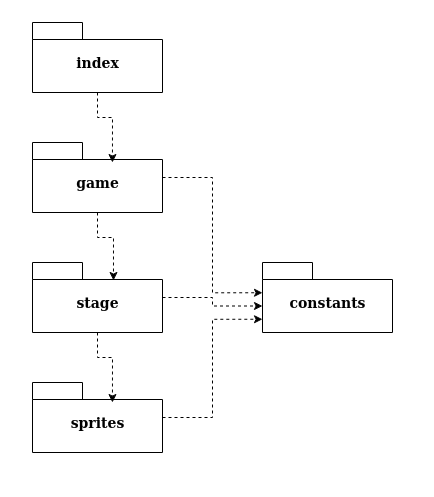
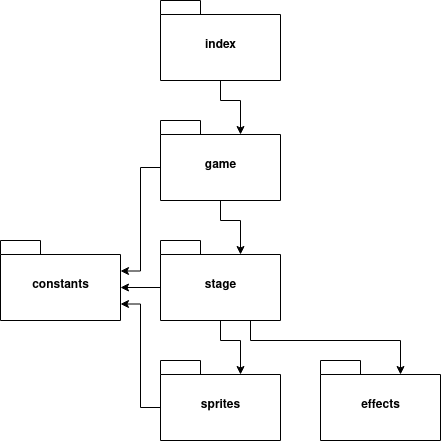
27.4

diff --git a/dokumentaatio/tyoaika.md b/dokumentaatio/tyoaika.md
@@ -6,9 +6,10 @@
  11.4 | 3 | pygameen tutustuminen ja rakenteen hahmottelu 
  12.4 | 5 | pelin rakenne, pelaajan liikkuminen, yhteentörmäykset tasojen kanssa 
  13.4 | 6 | rakenteen refaktorointi, testitaso ja pelin "loppu", functioiden muokkaaminen testikelpoisiksi, testit, dokumentit 
- 14.4 | 3 | muutoksia liikkumiseen, bugien korjailua, lisää testejä
- 17.4 | 3 | pylintiin tutustuminen ja koodin korjailu, rakennekaavio, dokumenttien päivitys
+ 14.4 | 3 | muutoksia liikkumiseen, bugien korjailua, lisää testejä 
+ 17.4 | 3 | pylintiin tutustuminen ja koodin korjailu, rakennekaavio, dokumenttien päivitys 
  17.4 | 4 | pelin suunnittelua, alustavat kentät ja vaaratekijät, testien korjailua 
  19.4 | 1 | refaktorointi, bugien korjailu 
- 26.4 | 5 | tulosruudun toteutus, bugien korjailu, lisää testejä, dokumentaatio
- yht | 32 |
+ 26.4 | 5 | tulosruudun toteutus, bugien korjailu, lisää testejä, dokumentaatio 
+ 27.4 | 3 | powerups, dokumentaatio
+ yht | 35 |

diff --git a/dokumentaatio/vaatimusmaarittely.md b/dokumentaatio/vaatimusmaarittely.md
@@ -13,6 +13,6 @@ Ohjelma on yksinkertainen kaksiulotteinen tasohyppelipeli, jossa on täysin satu
 Jatkokehitysideat
 
 * Viholliset
-* Kentästä löytyvät kertakäyttöiset esineet (esim väliaikainen lentokyky, haavoittumattomuus, aseet, yms)
+[x] Kentästä löytyy kertakäyttöisiä esineet (esim väliaikainen lentokyky, haavoittumattomuus, aseet, yms)
 * Muuttujat kentissä (esim painovoiman kääntyminen, väliaikainen nopeutuminen)
 * Käsintehdyt kentät
